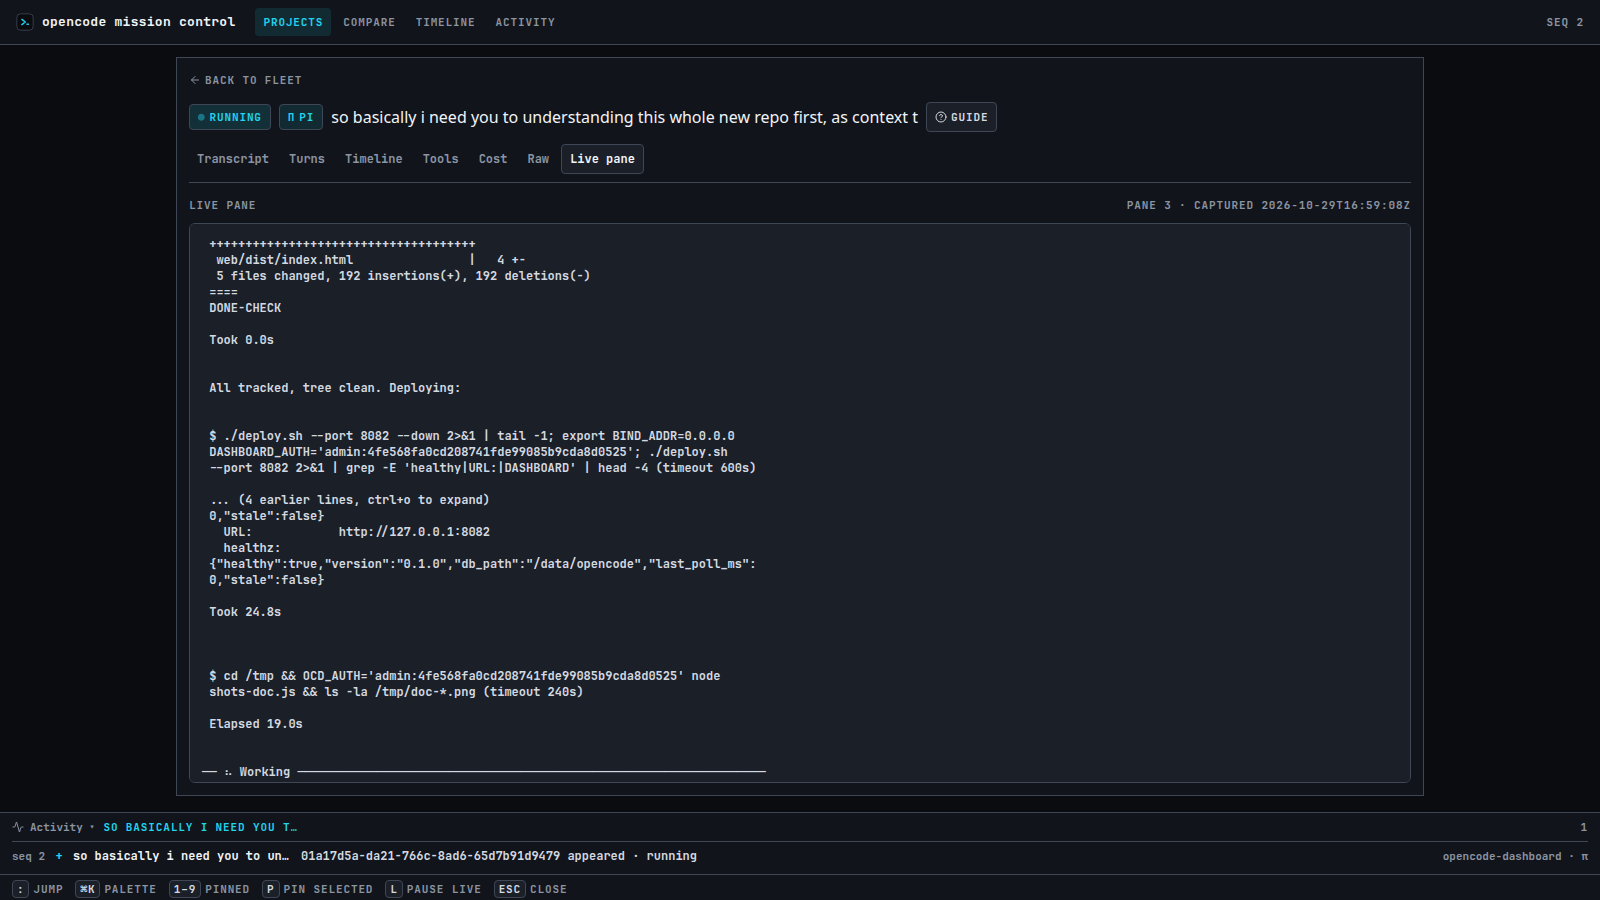
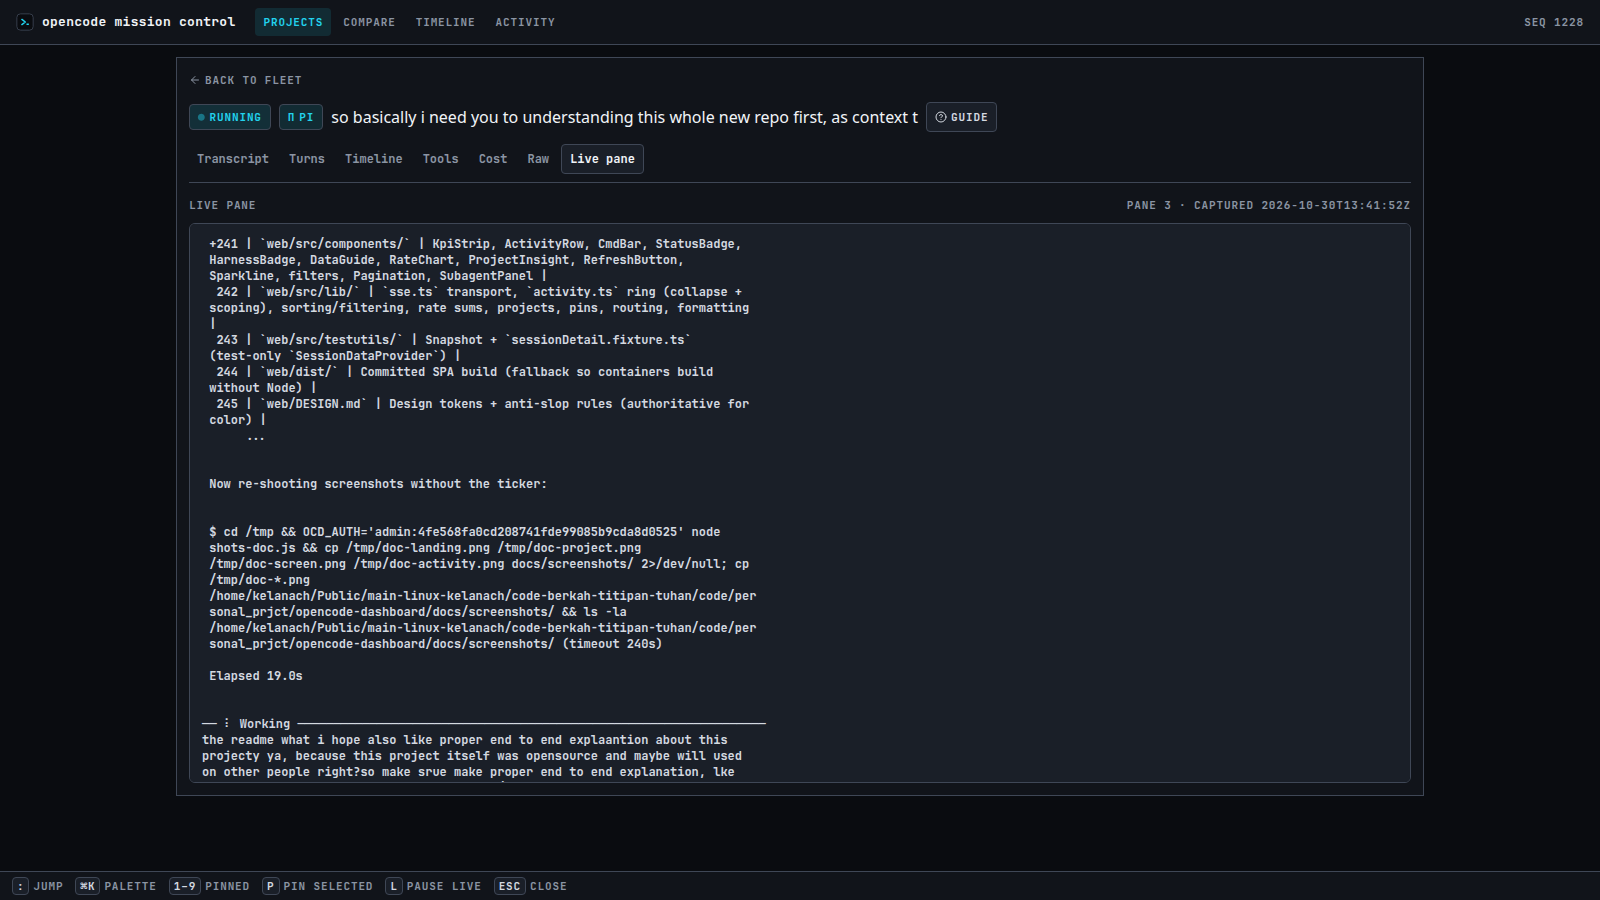
chore: remove dead SessionStub, EventTicker leftovers

diff --git a/web/src/lib/activity.ts b/web/src/lib/activity.ts
@@ -16,8 +16,6 @@ import { formatCompact, formatUSD } from "./format";
 
 /** Ring capacity: newest-first, oldest evicted past this length. */
 export const ACTIVITY_RING_CAP = 100;
-/** Visible cap per activity page before paging controls appear. */
-export const ACTIVITY_VISIBLE_CAP = 30;
 /**
  * Mover thresholds: a session is a "top mover" only when its per-tick delta
  * exceeds these. Rationale: per-tick token jitter under ~1k tokens (a single

diff --git a/README.md b/README.md
@@ -34,8 +34,8 @@ You run coding agents in terminal panes and lose track: which one is burning tok
   token-rate area chart with per-sample tooltips — all derived from live rows.
 - **Fleet-wide analysis:** Compare 2–4 sessions, a Global timeline of all
   sessions, and an **Activity log** (`#/activity`) — the full event feed with
-  search, harness slice, and paging (the bottom ticker is its live mini-view,
-  collapsible and view-scoped).
+  search, harness slice, and paging. The activity ring still accumulates in
+  the App shell to feed this view; event rows deep-link to their sessions.
 - **KPI strip:** Active / Waiting / Errors follow the date/bucket/harness/
   search filters; throughput, costs, and live presence stay global
   measurements. Cost cards switch windows with the date filter
@@ -191,13 +191,12 @@ is active (then windowed, with windowed labels).
 | `#/sessions/:id[/:tab]` | One session: Transcript / Turns / Timeline / Tools / Cost / Raw tabs (live export data) plus the Subagents panel, or the Live pane tab (opencode detail + live pane; pi rows deep-link to Live pane until transcript drill-down lands). |
 | `#/compare?ids=a,b` | 2–4 sessions side by side: KPI cards + overlaid cost/token lines. Pick sessions to spot which run burns faster. |
 | `#/timeline` | All sessions as swimlanes on one time axis: tool-call bars, completions, token-rate area, subagent nesting. Click a lane to drill in. |
-| `#/activity` | The full event log behind the bottom ticker: newest first, capped at the last 100 transitions, with search, harness slice, and paging. Every row deep-links to its session. |
+| `#/activity` | The full event log: newest first, capped at the last 100 transitions, with search, harness slice, and paging. Movers collapse per session; status history accumulates. Every row deep-links to its session. |
 
 Every view carries a (?) **DataGuide** explaining statuses, harnesses, KPIs,
 recency, sparks/rate, and Live-pane states. Filter/page state lives in the
-hash, so links survive reload and share. The footer's **Activity ticker** is
-the log's live mini-view: view-scoped (project/session), mover-deduplicated,
-paged, and collapsible (preference persists).
+hash, so links survive reload and share. A collapsible **Refresh** button
+re-pulls the snapshot on demand (works paused).
 
 ## Development
 
@@ -239,7 +238,7 @@ controls to make things pass. See `CONTRIBUTING.md`.
 | `internal/model/` | `SessionRow` (+`Harness`), `Snapshot` (+`SessionWindows`), `WindowSums`, status derivation |
 | `internal/auth/` | `DASHBOARD_AUTH` gate: Basic-or-cookie-or-open, fail-closed, zero logging (test-pinned) |
 | `web/src/views/` | `Projects`, `Fleet`, `SessionDetail` (+ screen tab), `Compare`, `GlobalTimeline`, `Activity` |
-| `web/src/components/` | KpiStrip, EventTicker, ActivityRow, CmdBar, StatusBadge, HarnessBadge, DataGuide, RateChart, ProjectInsight, RefreshButton, Sparkline, filters, Pagination, SubagentPanel |
+| `web/src/components/` | KpiStrip, ActivityRow, CmdBar, StatusBadge, HarnessBadge, DataGuide, RateChart, ProjectInsight, RefreshButton, Sparkline, filters, Pagination, SubagentPanel |
 | `web/src/lib/` | `sse.ts` transport, `activity.ts` ring (collapse + scoping), sorting/filtering, rate sums, projects, pins, routing, formatting |
 | `web/src/testutils/` | Snapshot + `sessionDetail.fixture.ts` (test-only `SessionDataProvider`) |
 | `web/dist/` | Committed SPA build (fallback so containers build without Node) |
